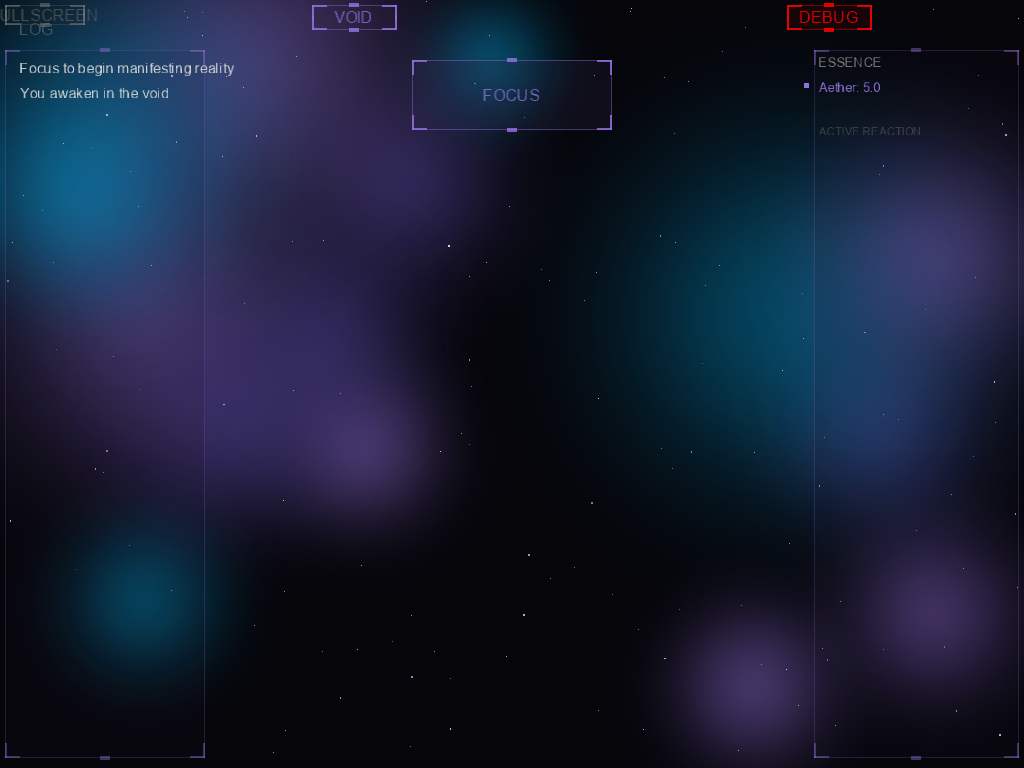
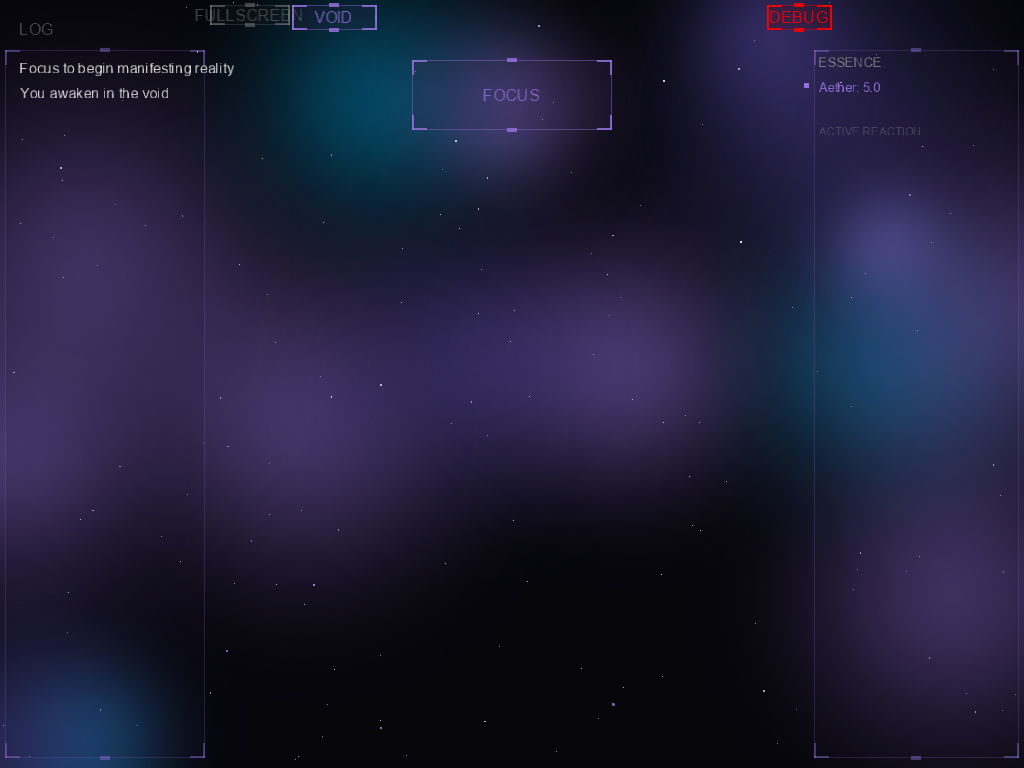
partial, waiting on resource reset

diff --git a/scripts/semantic_review.py b/scripts/semantic_review.py
@@ -1,23 +1,61 @@
 import os
 import json
 
-def detect_collisions(buttons):
-    collisions = []
+def detect_collisions(buttons, screen_width=1024, screen_height=768):
+    violations = []
+    
+    # Define Panels based on Game1.cs Draw() logic
+    # Left Panel (Log): Rectangle(5, 50, 200, UiLayout.Height - 60)
+    # Right Panel (Status/Resources): Rectangle(UiLayout.Width - 210, 50, 205, UiLayout.Height - 60)
+    
+    # We define "Forbidden Zones" for center-area buttons.
+    # Top buttons should also avoid these X-ranges to not overlap panel headers.
+    panels = [
+        {'Name': 'LogPanel', 'X': 5, 'Y': 0, 'Width': 200, 'Height': screen_height}, # Full height forbidden for center elements
+        {'Name': 'StatusPanel', 'X': screen_width - 210, 'Y': 0, 'Width': 205, 'Height': screen_height}
+    ]
+
     for i in range(len(buttons)):
+        b1 = buttons[i]['Bounds']
+        b1_name = buttons[i].get('Text', f'Button_{i}')
+        b1_tab = buttons[i].get('Tab', 'None')
+
+        # 1. Check if off-screen
+        if (b1['X'] < 0 or b1['Y'] < 0 or 
+            b1['X'] + b1['Width'] > screen_width or 
+            b1['Y'] + b1['Height'] > screen_height):
+            violations.append((b1_name, "SCREEN_BOUNDS"))
+
+        # 2. Check collisions with panels
+        # Logic: If a button is NOT a tab button (Tab != None), it must not hit any panel.
+        # If it IS a tab button (Tab == None), it still must not overlap with panel X-ranges.
+        for p in panels:
+            if (b1['X'] < p['X'] + p['Width'] and
+                b1['X'] + b1['Width'] > p['X'] and
+                b1['Y'] < p['Y'] + p['Height'] and
+                b1['Y'] + b1['Height'] > p['Y']):
+                violations.append((b1_name, p['Name']))
+
+        # 3. Check collisions with other buttons (only if they are on the same tab or one is global)
         for j in range(i + 1, len(buttons)):
-            b1 = buttons[i]['Bounds']
             b2 = buttons[j]['Bounds']
+            b2_name = buttons[j].get('Text', f'Button_{j}')
+            b2_tab = buttons[j].get('Tab', 'None')
             
-            # Simple rectangle intersection
-            if (b1['X'] < b2['X'] + b2['Width'] and
-                b1['X'] + b1['Width'] > b2['X'] and
-                b1['Y'] < b2['Y'] + b2['Height'] and
-                b1['Y'] + b1['Height'] > b2['Y']):
-                collisions.append((buttons[i]['Text'], buttons[j]['Text']))
-    return collisions
+            # Only collide if they could be visible at the same time
+            if b1_tab == b2_tab or b1_tab == "None" or b2_tab == "None":
+                # Simple rectangle intersection (Bounding Box)
+                if (b1['X'] < b2['X'] + b2['Width'] and
+                    b1['X'] + b1['Width'] > b2['X'] and
+                    b1['Y'] < b2['Y'] + b2['Height'] and
+                    b1['Y'] + b1['Height'] > b2['Y']):
+                    violations.append((b1_name, b2_name))
+                
+    return violations
 
 def semantic_review(metadata_path):
     if not os.path.exists(metadata_path):
+        print(f"[FAIL] Metadata file not found: {metadata_path}")
         return False
     
     with open(metadata_path, "r") as f:
@@ -26,15 +64,21 @@ def semantic_review(metadata_path):
     buttons = metadata.get("Buttons", [])
     print(f"Semantic Review for {metadata_path}:")
     
-    # 6.3 Detect Visual Collisions
-    collisions = detect_collisions(buttons)
+    # Use screen size from metadata if available, else default
+    width = metadata.get("ScreenWidth", 1024)
+    height = metadata.get("ScreenHeight", 768)
+    
+    collisions = detect_collisions(buttons, width, height)
     if collisions:
-        print(f"  [FAIL] UI Overlaps detected:")
+        print(f"  [FAIL] UI Violations detected:")
         for c in collisions:
-            print(f"    - {c[0]} overlaps with {c[1]}")
+            if c[1] == "SCREEN_BOUNDS":
+                print(f"    - {c[0]} is out of screen bounds.")
+            else:
+                print(f"    - {c[0]} overlaps with {c[1]}")
         return False
     else:
-        print(f"  [SUCCESS] No UI collisions detected.")
+        print(f"  [SUCCESS] No UI collisions or bounds violations detected.")
         
     return True
 

diff --git a/scripts/check_health.py b/scripts/check_health.py
@@ -111,14 +111,20 @@ def check_ui_collisions():
         with open(meta, "r") as f:
             data = json.load(f)
             buttons = data.get("Buttons", [])
-            collisions = detect_collisions(buttons)
-            if collisions:
-                print(f"[FAIL] Collisions in {meta}:")
-                for c in collisions:
-                    print(f"  - {c[0]} overlaps with {c[1]}")
+            width = data.get("ScreenWidth", 1024)
+            height = data.get("ScreenHeight", 768)
+            
+            violations = detect_collisions(buttons, width, height)
+            if violations:
+                print(f"[FAIL] UI Violations in {meta}:")
+                for v in violations:
+                    if v[1] == "SCREEN_BOUNDS":
+                        print(f"  - {v[0]} is out of screen bounds.")
+                    else:
+                        print(f"  - {v[0]} overlaps with {v[1]}")
                 all_pass = False
             else:
-                print(f"[SUCCESS] No collisions in {meta}")
+                print(f"[SUCCESS] No UI violations in {meta}")
                 
     return all_pass
 
@@ -249,6 +255,25 @@ def check_visual_health():
 
     return all_pass
 
+def check_button_states():
+    print("\n--- Checking Button Hover States ---")
+    idle = "review/pulse_frame1.png"
+    hover = "review/pulse_frame2.png"
+    
+    if not os.path.exists(idle) or not os.path.exists(hover):
+        print("[INFO] Hover state frames missing, skipping button state audit.")
+        return True
+        
+    scripts_dir = os.path.abspath("scripts")
+    if scripts_dir not in sys.path:
+        sys.path.append(scripts_dir)
+    try:
+        from button_state_audit import compare_button_states
+        return compare_button_states(idle, hover)
+    except ImportError as e:
+        print(f"[ERROR] Could not import button_state_audit: {e}")
+        return False
+
 if __name__ == "__main__":
     skip_tests = "--skip-tests" in sys.argv
     
@@ -261,13 +286,14 @@ if __name__ == "__main__":
     d_pass = check_docs_staleness()
     s_pass = check_screenshot_staleness()
     u_pass = check_ui_collisions()
+    b_pass = check_button_states()
     v_pass = check_visual_health()
     
     t_pass = cov_val > 0 and cov_pass and tests_passed
     
     export_shields_data(m_count, cov_val, d_pass, t_pass, s_pass)
 
-    if m_count > 0 or not cov_pass or not d_pass or not tests_passed or not s_pass or not u_pass or not v_pass:
+    if m_count > 0 or not cov_pass or not d_pass or not tests_passed or not s_pass or not u_pass or not b_pass or not v_pass:
         print("\n[FAIL] Health checks failed.")
         sys.exit(1)
     

diff --git a/scripts/button_state_audit.py b/scripts/button_state_audit.py
@@ -7,23 +7,57 @@ def compare_button_states(idle_path, hover_path):
         print("Missing screenshots for comparison.")
         return False
     
+    idle_meta = idle_path.replace(".png", ".json")
+    hover_meta = hover_path.replace(".png", ".json")
+    
+    if not os.path.exists(idle_meta) or not os.path.exists(hover_meta):
+        print("Missing metadata for comparison.")
+        return False
+
+    with open(idle_meta, "r") as f: m1 = json.load(f)
+    with open(hover_meta, "r") as f: m2 = json.load(f)
+    
     img1 = Image.open(idle_path).convert('RGB')
     img2 = Image.open(hover_path).convert('RGB')
     
-    # Calculate average brightness
-    avg1 = np.mean(np.array(img1))
-    avg2 = np.mean(np.array(img2))
+    # Identify the button that changed (the one being hovered)
+    # For now, we compare all buttons and find the one with the most change
+    # or look for a specific button if provided.
     
-    print(f"Button State Audit:")
-    print(f"  Idle Brightness: {avg1:.2f}")
-    print(f"  Hover Brightness: {avg2:.2f}")
+    print(f"Button State Audit (Metadata-Aware):")
     
-    # Hover should generally be brighter in our theme
-    if avg2 > avg1:
-        print(f"  [SUCCESS] Hover state detected (Brightness increased by {avg2-avg1:.2f})")
-        return True
+    max_diff = -1
+    best_btn = None
+    
+    for b in m1.get("Buttons", []):
+        bounds = b['Bounds']
+        box = (bounds['X'], bounds['Y'], bounds['X'] + bounds['Width'], bounds['Y'] + bounds['Height'])
+        
+        # Crop button area
+        crop1 = img1.crop(box)
+        crop2 = img2.crop(box)
+        
+        avg1 = np.mean(np.array(crop1))
+        avg2 = np.mean(np.array(crop2))
+        diff = abs(avg2 - avg1)
+        
+        if diff > max_diff:
+            max_diff = diff
+            best_btn = (b['Text'], avg1, avg2)
+            
+    if best_btn and max_diff > 5: # Threshold for hover effect
+        print(f"  Detected hover effect on '{best_btn[0]}':")
+        print(f"    Idle Brightness: {best_btn[1]:.2f}")
+        print(f"    Hover Brightness: {best_btn[2]:.2f}")
+        
+        if best_btn[2] > best_btn[1]:
+            print(f"    [SUCCESS] Hover state detected (Brightness increased by {max_diff:.2f})")
+            return True
+        else:
+            print(f"    [FAIL] Hover state did not increase brightness.")
+            return False
     else:
-        print(f"  [FAIL] No visual change detected between Idle and Hover states.")
+        print(f"  [FAIL] No significant visual change detected in any button bounding box.")
         return False
 
 if __name__ == "__main__":

diff --git a/src/IncriElemental.Desktop/UI/LayoutSystem.cs b/src/IncriElemental.Desktop/UI/LayoutSystem.cs
@@ -16,7 +16,7 @@ public class LayoutSystem
         var tabW = 85; var tabH = 25; 
         // Center the tabs in the middle area (between the 200px side panels)
         var availableWidth = UiLayout.Width - 420;
-        var startX = 210 + (availableWidth / 2) - 200;
+        var startX = 210 + (availableWidth / 2) - 220;
         
         buttons.Add(new Button(new Rectangle(startX, 5, tabW, tabH), "[TAB_VOID]", Color.MediumPurple, () => setTab(GameTab.Void), tab: GameTab.None));
         buttons.Add(new Button(new Rectangle(startX + 90, 5, tabW, tabH), "[TAB_SPIRE]", Color.Gray, () => setTab(GameTab.Spire), () => engine.State.Discoveries.ContainsKey("forge_constructed"), tab: GameTab.None));
@@ -24,8 +24,8 @@ public class LayoutSystem
         buttons.Add(new Button(new Rectangle(startX + 270, 5, 110, tabH), "[TAB_CONSTELLATION]", Color.Gold, () => setTab(GameTab.Constellation), () => engine.State.CosmicInsight > 1.0, tab: GameTab.None));
         buttons.Add(new Button(new Rectangle(startX + 385, 5, tabW, tabH), "[TAB_FLOW]", Color.Cyan, () => setTab(GameTab.Flow), () => engine.State.Discoveries.ContainsKey("aether_unlocked"), tab: GameTab.None));
         
-        if (aiMode) buttons.Add(new Button(new Rectangle(startX + 475, 5, tabW, tabH), "[TAB_DEBUG]", Color.Red, () => setTab(GameTab.Debug), tab: GameTab.None));
-        if (toggleFullscreen != null) buttons.Add(new Button(new Rectangle(5, 5, 80, 20), "[BTN_FULLSCREEN]", Color.Gray * 0.6f, toggleFullscreen, tab: GameTab.None));
+        if (aiMode) buttons.Add(new Button(new Rectangle(startX + 475, 5, 65, tabH), "[TAB_DEBUG]", Color.Red, () => setTab(GameTab.Debug), tab: GameTab.None));
+        if (toggleFullscreen != null) buttons.Add(new Button(new Rectangle(210, 5, 80, 20), "[BTN_FULLSCREEN]", Color.Gray * 0.6f, toggleFullscreen, tab: GameTab.None));
 
         var centerX = UiLayout.Width / 2;
         var focusBtn = new Button(new Rectangle(centerX - 100, 45, 200, 70), "[BTN_FOCUS]", Color.MediumPurple, () => {

diff --git a/src/IncriElemental.Desktop/UI/AiModeSystem.cs b/src/IncriElemental.Desktop/UI/AiModeSystem.cs
@@ -53,7 +53,7 @@ public class AiModeSystem(GameEngine engine)
             else if (act == "wait" && parts.Length > 1) { if (double.TryParse(parts[1], out var v)) { _waitTimer = v; isBlocking = true; } }
             else if (act == "screenshot" && parts.Length > 1) { 
                 var n = parts[1].Trim(); var p = n.EndsWith(".png") ? n : n + ".png"; if (!p.Contains('/') && !p.Contains('\\')) p = Path.Combine("review", p); 
-                var oldTut = tut.IsActive; tut.IsActive = false; vis.ClearShake();
+                var oldTut = tut.IsActive; tut.IsActive = false; vis.ClearFlashes();
                 _game?.RequestScreenshot(p);
                 draw(gt); 
                 SaveMetadata(p.Replace(".png", ".json"), btns, gt); 
@@ -71,7 +71,7 @@ public class AiModeSystem(GameEngine engine)
 
         if (_commandIndex >= _commands.Count && gt.TotalGameTime.TotalSeconds > 3.0) { 
             if (!string.IsNullOrEmpty(defPath) && !File.Exists(defPath)) { 
-                var oldTut = tut.IsActive; tut.IsActive = false; vis.ClearShake();
+                var oldTut = tut.IsActive; tut.IsActive = false; vis.ClearFlashes();
                 _game?.RequestScreenshot(defPath);
                 draw(gt); 
                 SaveMetadata(defPath.Replace(".png", ".json"), btns, gt); 

diff --git a/scripts/agentic_review.py b/scripts/agentic_review.py
@@ -94,6 +94,11 @@ def run_ai_review(commands, assertions=None):
                 print("Performing metadata verification...")
                 metadata_pass = verify_metadata(metadata_path, assertions)
 
+            # Semantic Review (Collision Detection)
+            print("Performing semantic UI review...")
+            from semantic_review import semantic_review
+            semantic_pass = semantic_review(metadata_path)
+
             # Visual Regression Check
             baseline_path = "review/baseline.png"
             visual_pass = True
@@ -113,7 +118,7 @@ def run_ai_review(commands, assertions=None):
             if os.path.exists(metadata_path):
                 shutil.copy(metadata_path, "review/screenshot.json")
             
-            return metadata_pass and visual_pass
+            return metadata_pass and semantic_pass and visual_pass
 
     print("Review failed! Screenshot not found.")
     return False

diff --git a/src/IncriElemental.Desktop/Visuals/VisualManager.cs b/src/IncriElemental.Desktop/Visuals/VisualManager.cs
@@ -35,6 +35,13 @@ public class VisualManager
 
     public void AddShake(float intensity) => ScreenShakeIntensity = Math.Max(ScreenShakeIntensity, intensity);
     public void ClearShake() => ScreenShakeIntensity = 0f;
+    public void ClearFlashes()
+    {
+        ScreenShakeIntensity = 0f;
+        TabTransitionAlpha = 0f;
+        ReactionFlashAlpha = 0f;
+        CelebrationFlashAlpha = 0f;
+    }
     public void StartTabTransition() => TabTransitionAlpha = 1.0f;
     public void StartReactionSequence(Color color) { ReactionFlashAlpha = 1.0f; _reactionColor = color; AddShake(5f); }
     public void StartCelebration() { CelebrationFlashAlpha = 1.0f; AddShake(10f); }

diff --git a/scripts/update_screenshots.py b/scripts/update_screenshots.py
@@ -23,7 +23,7 @@ SCENARIOS = {
         "manifest:speck_of_matter",
         "update:10.0",
         "tab:Spire",
-        "wait:1.0",
+        "update:1.0",
         "screenshot:spire_flow"
     ],
     "world_map": [
@@ -32,7 +32,7 @@ SCENARIOS = {
         "manifest:familiar",
         "update:5.0",
         "tab:World",
-        "wait:1.0",
+        "update:1.0",
         "screenshot:world_map"
     ],
     "mixing_table": [
@@ -41,7 +41,7 @@ SCENARIOS = {
         "manifest:forge",
         "update:5.0",
         "tab:Spire",
-        "wait:1.0",
+        "update:1.0",
         "screenshot:mixing_table"
     ]
 }
